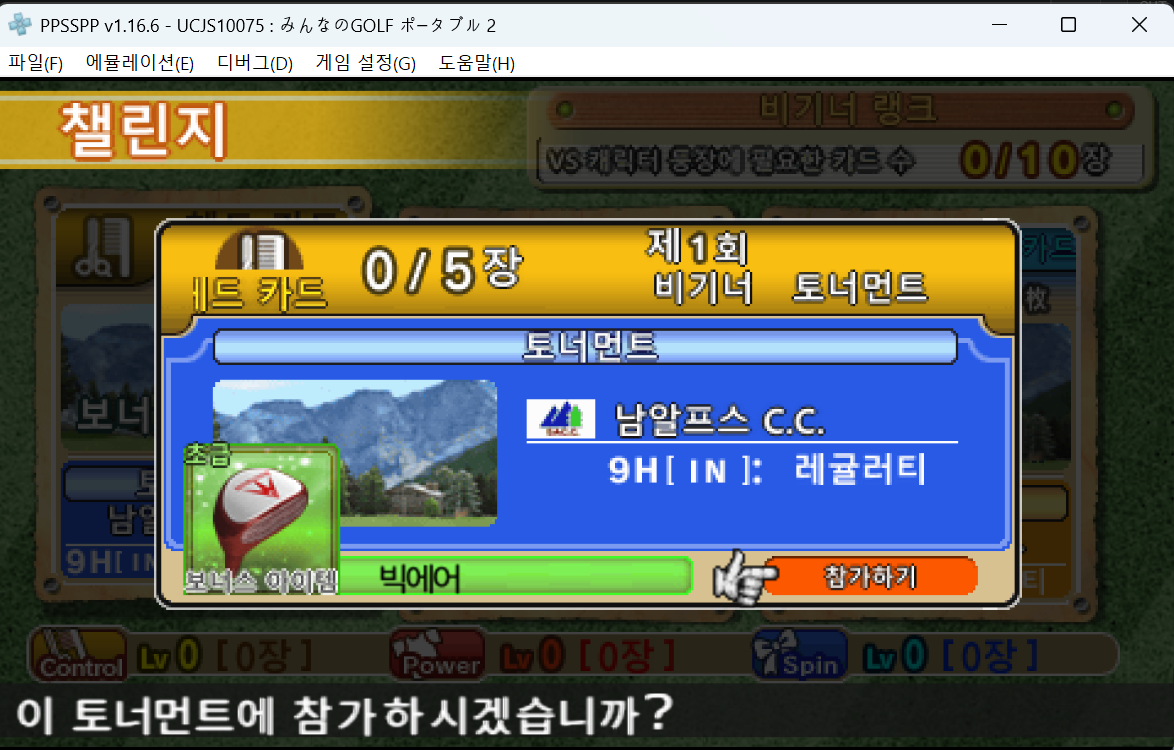
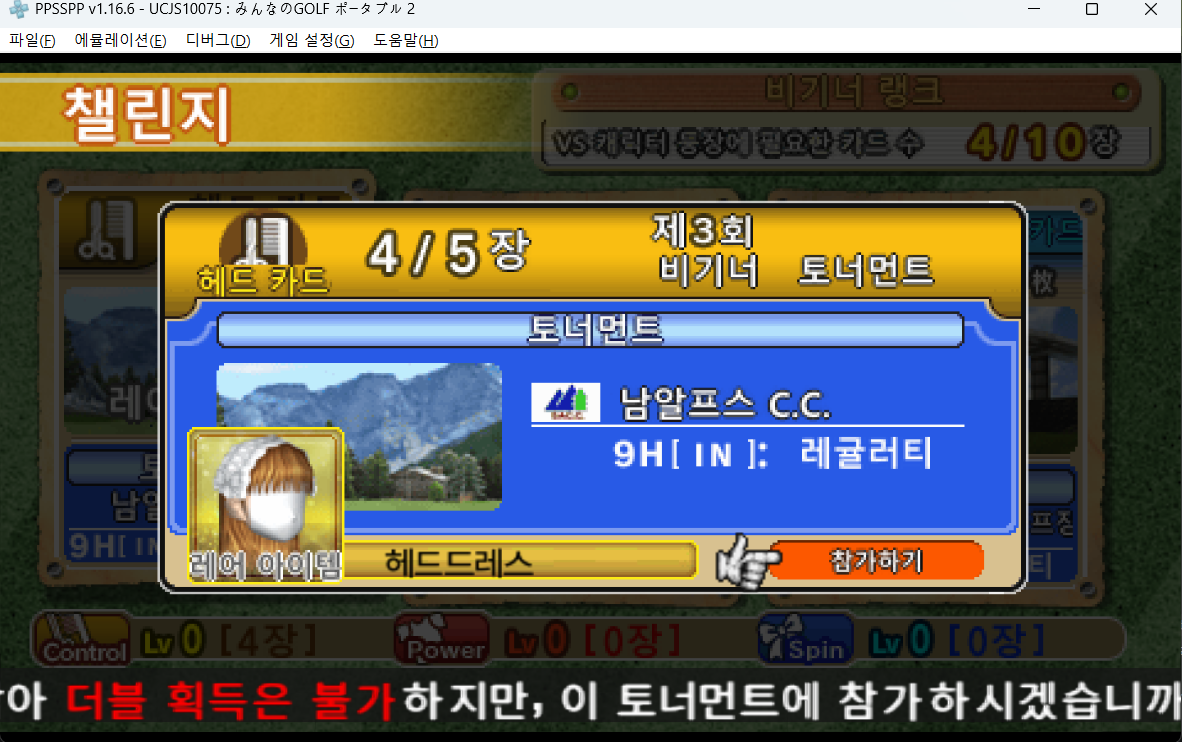
모두의 골프 2: v0.8 스크린샷 갱신
대회 참가·코스 진입·인게임 3장을 v0.8 빌드 화면으로 교체하고
카드 선택(더블 획득) 화면 1장을 추가했다.

diff --git a/psp/Minna-no-Golf-Portable2/README.md b/psp/Minna-no-Golf-Portable2/README.md
@@ -60,6 +60,10 @@
 |---|---|
 | ![코스 진입](screenshots/course_view.png) | ![인게임](screenshots/in_game.png) |
 
+| 클리어 보너스 | |
+|---|---|
+| ![클리어 보너스](screenshots/clear_bonus.png) | |
+
 ## 적용 방법
 
 원본 ISO(아래 「원본 정보」와 MD5 일치)에 `mgp_kr_v0.8.xdelta` 를 적용합니다.
